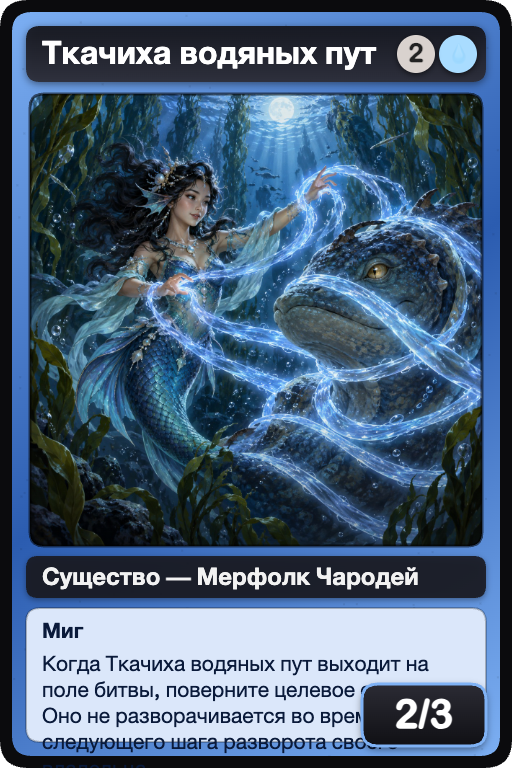
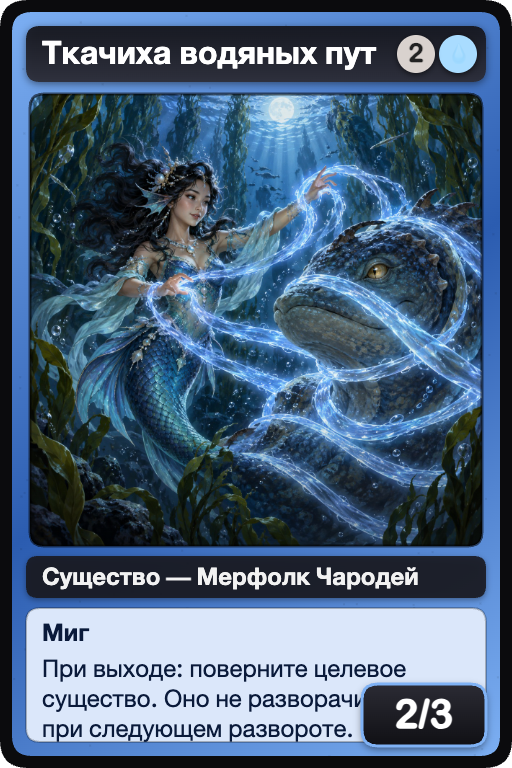
more

Changed region(s): [[0.0625, 0.8125, 0.8438, 1.0]]

diff --git a/js/cards.js b/js/cards.js
@@ -149,7 +149,7 @@
     flavor: L('Морская пена скрывает её от вражеских чар.', 'Sea foam hides her from hostile magic.') });
   def({ id: 'watertrap_weaver', name: L('Ткачиха водяных пут', 'Watertrap Weaver'), type: 'creature', subtype: L('Мерфолк Чародей', 'Merfolk Wizard'), cost: '2U', color: 'U',
     power: 2, toughness: 3, keywords: ['flash'], emoji: '🧜',
-    text: L('Когда Ткачиха водяных пут выходит на поле битвы, поверните целевое существо. Оно не разворачивается во время следующего шага разворота своего владельца.', 'When Watertrap Weaver enters the battlefield, tap target creature. It does not untap during its controller\'s next untap step.'),
+    text: L('При выходе: поверните целевое существо. Оно не разворачивается при следующем развороте.', 'When this enters: tap target creature. It skips its next untap.'),
     etb: { kind: 'tap', skipUntap: 1, targets: ['creature'] } });
   def({ id: 'tide_seraph', name: L('Серафим прилива', 'Tide Seraph'), type: 'creature', subtype: L('Ангел Мерфолк', 'Angel Merfolk'), cost: '3WU', color: 'U',
     power: 3, toughness: 4, keywords: ['flying', 'lifelink'], emoji: '🧜',
